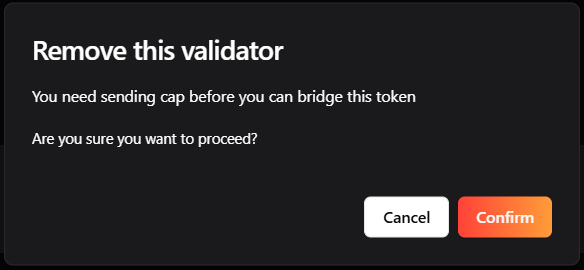
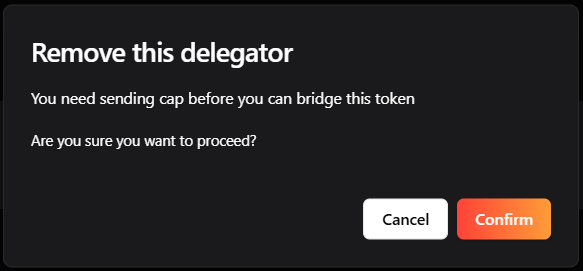
GITBOOK-22: No subject

diff --git a/staking/validate.md b/staking/validate.md
@@ -24,7 +24,7 @@ Choose the amount to stake and lock to your validator (note: the amount must be 
 
 After entering the amount to validate, click “Next”.
 
-<figure><img src="../.gitbook/assets/image (1) (1) (1) (1) (1) (1) (1).png" alt=""><figcaption><p>Step1: Staking amount</p></figcaption></figure>
+<figure><img src="../.gitbook/assets/image (1) (1) (1) (1) (1) (1) (1) (1).png" alt=""><figcaption><p>Step1: Staking amount</p></figcaption></figure>
 
 ### 1.3 Node Info
 
@@ -120,7 +120,7 @@ To delete your validator node after the staking duration has expired:
 
 <figure><img src="../.gitbook/assets/image (3) (1) (1) (1).png" alt=""><figcaption><p>My staking</p></figcaption></figure>
 
-<figure><img src="../.gitbook/assets/image (1) (1) (1) (1) (1).png" alt=""><figcaption><p>Popup confirm remove validator</p></figcaption></figure>
+<figure><img src="../.gitbook/assets/image (1) (1) (1) (1) (1) (1).png" alt=""><figcaption><p>Popup confirm remove validator</p></figcaption></figure>
 
 <figure><img src="../.gitbook/assets/image (2) (1) (1) (1) (1).png" alt=""><figcaption><p>Remove validator succsess</p></figcaption></figure>
 

diff --git a/nft2.0/app-guide/nft2console/manage-onchain-data.md b/nft2.0/app-guide/nft2console/manage-onchain-data.md
@@ -67,8 +67,10 @@ Click the **Write Data** button and confirm the transaction in your connected wa
 * Writing a property key only updates that specific trait without affecting others.
 * You can write data multiple times to the same NFT.
 
-<figure><img src="../../../.gitbook/assets/image.png" alt=""><figcaption><p>Write data</p></figcaption></figure>
+<figure><img src="../../../.gitbook/assets/image (1).png" alt=""><figcaption><p>Write data</p></figcaption></figure>
 
-<figure><img src="../../../.gitbook/assets/image (1).png" alt=""><figcaption><p>Write batch NFT data</p></figcaption></figure>
+<figure><img src="../../../.gitbook/assets/image (1) (1).png" alt=""><figcaption><p>Write batch NFT data</p></figcaption></figure>
 
 <figure><img src="../../../.gitbook/assets/image (2).png" alt=""><figcaption><p>Select key</p></figcaption></figure>
+
+<figure><img src="../../../.gitbook/assets/image.png" alt=""><figcaption><p>NFT data</p></figcaption></figure>

diff --git a/nft2.0/app-guide/nft2console/register-data-schema.md b/nft2.0/app-guide/nft2console/register-data-schema.md
@@ -19,7 +19,7 @@ The article guides you to set up the data schema of the game assets.
 Navigate to **Console** > **Dashboard** > **NFT Data Schema**. Here you can see the data schema of your game. For now, each Game ID can define only 01 data schema.\
 
 
-<figure><img src="../../../.gitbook/assets/image (1) (1).png" alt=""><figcaption><p>Add schema</p></figcaption></figure>
+<figure><img src="../../../.gitbook/assets/image (1) (1) (1).png" alt=""><figcaption><p>Add schema</p></figcaption></figure>
 
 Data schema is defined in format of JSON, to list out all the game properties of the NFTs and their data type. This is to validate the payload whenever the NFT is updated with your game metadata. You can define one-by-one property in the "View as List" form, then Console will generate the JSON schema for you.
 

diff --git a/staking/delegate.md b/staking/delegate.md
@@ -87,7 +87,7 @@ Clicking on the Transaction ID opens the Delegator detail page, where all key in
 
 <figure><img src="../.gitbook/assets/image (8).png" alt=""><figcaption><p>My staking</p></figcaption></figure>
 
-<figure><img src="../.gitbook/assets/image (1) (1) (1) (1).png" alt=""><figcaption><p>Popup confirm remove delegator</p></figcaption></figure>
+<figure><img src="../.gitbook/assets/image (1) (1) (1) (1) (1).png" alt=""><figcaption><p>Popup confirm remove delegator</p></figcaption></figure>
 
 <figure><img src="../.gitbook/assets/image (2) (1) (1) (1).png" alt=""><figcaption><p>Remove delegator succsess</p></figcaption></figure>
 

diff --git a/nft2.0/app-guide/nft2console/create-dapp.md b/nft2.0/app-guide/nft2console/create-dapp.md
@@ -45,7 +45,7 @@ On the profile creation screen, complete the following fields:
 * Once all fields are completed, click the **“Save”** button to submit your profile.
 * Your information will be stored and made publicly visible on DareProtocol.
 
-<figure><img src="../../../.gitbook/assets/image (1) (1) (1).png" alt=""><figcaption><p>D-app Profile</p></figcaption></figure>
+<figure><img src="../../../.gitbook/assets/image (1) (1) (1) (1).png" alt=""><figcaption><p>D-app Profile</p></figcaption></figure>
 
 ### Step 3: Submit Your D-app On-Chain
 

diff --git a/bridge/bridge-nft.md b/bridge/bridge-nft.md
@@ -72,4 +72,4 @@ This section provides a clear and detailed history of each transaction, includin
 
 Users can also view the bridged NFT on our [**NFT2Scan**](https://nft2scan.com/) platform.
 
-<figure><img src="../.gitbook/assets/image (1) (1) (1) (1) (1) (1).png" alt=""><figcaption><p>History</p></figcaption></figure>
+<figure><img src="../.gitbook/assets/image (1) (1) (1) (1) (1) (1) (1).png" alt=""><figcaption><p>History</p></figcaption></figure>

diff --git a/bridge/bridge-token.md b/bridge/bridge-token.md
@@ -26,7 +26,7 @@ description: >-
 
 * Select Bridge fee is currently **included or exclude** in your input amount
 
-<figure><img src="../.gitbook/assets/image (1) (1) (1) (1) (1) (1) (1) (1).png" alt=""><figcaption><p>Popup confirm Bridge fee</p></figcaption></figure>
+<figure><img src="../.gitbook/assets/image (1) (1) (1) (1) (1) (1) (1) (1) (1).png" alt=""><figcaption><p>Popup confirm Bridge fee</p></figcaption></figure>
 
 ### **1.4 Completed**
 
